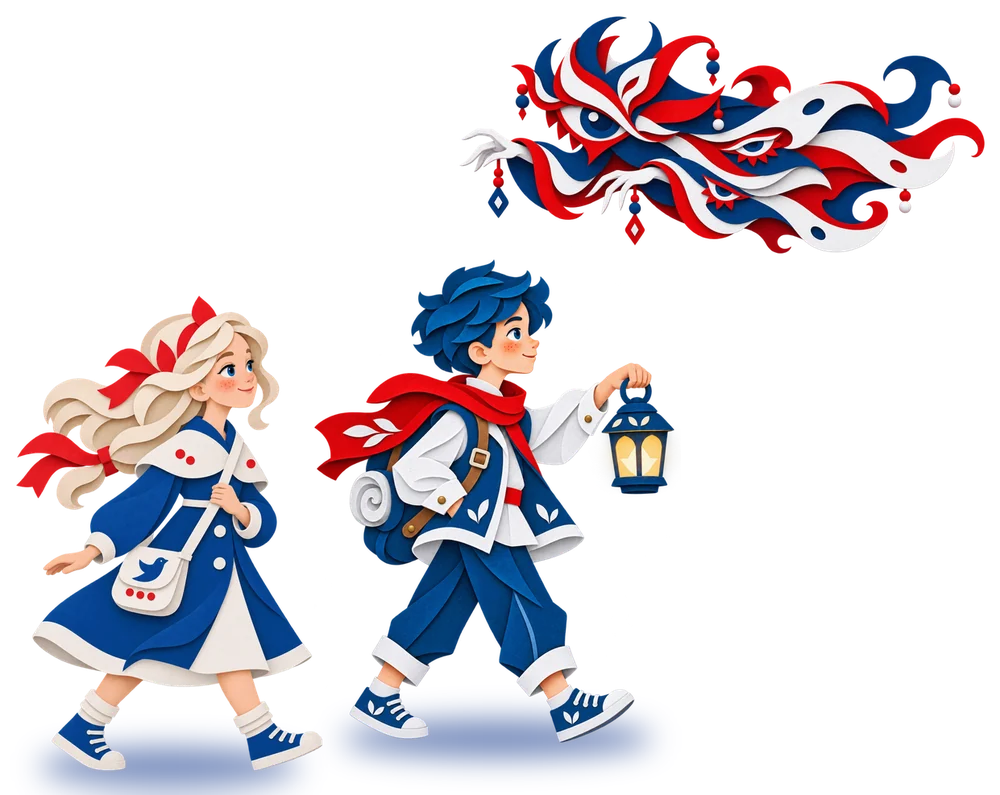
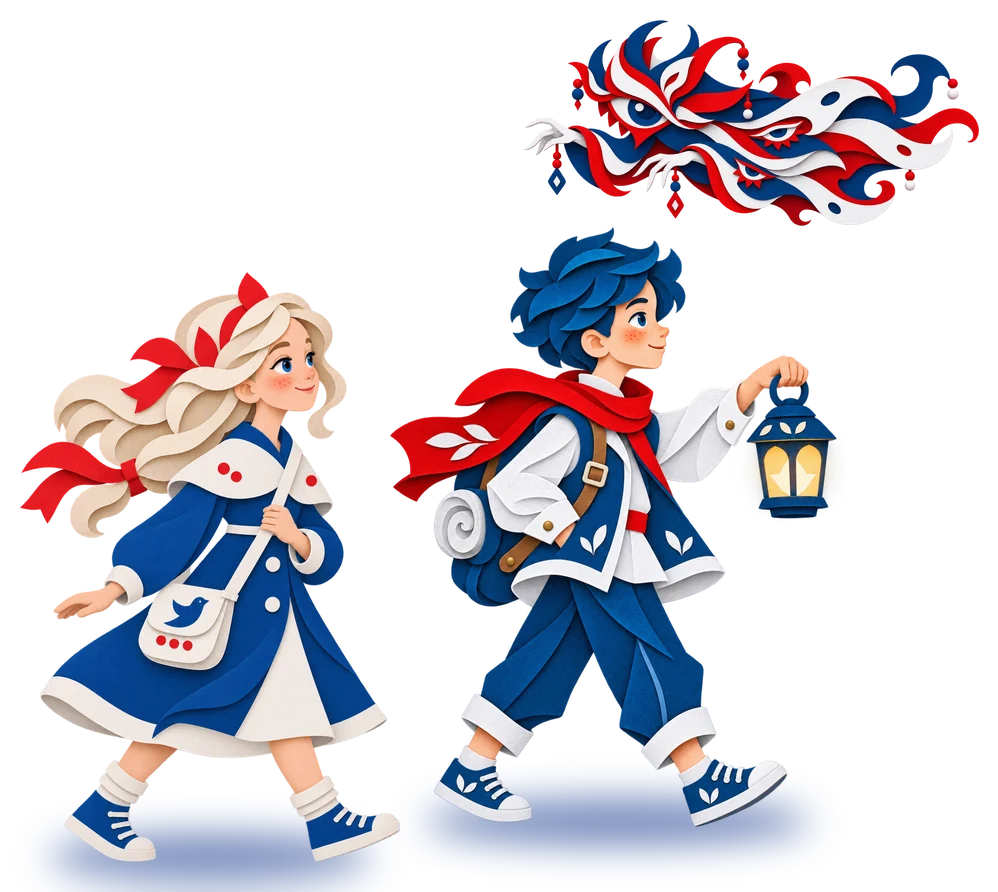
Крупнее герои «Синей птицы» и «Королевы»

diff --git a/index.html b/index.html
@@ -9,14 +9,14 @@
 <link rel="preconnect" href="https://fonts.googleapis.com">
 <link rel="preconnect" href="https://fonts.gstatic.com" crossorigin>
 <link href="https://fonts.googleapis.com/css2?family=Onest:wght@400;500;600;700&display=swap" rel="stylesheet">
-<link rel="stylesheet" href="styles.css?v=d5b880ca">
+<link rel="stylesheet" href="styles.css?v=c5b10583">
 </head>
 <body>
 
 <!-- ОБЛОЖКА: сцена собрана из слоев, раскладка своя на каждом брейкпоинте -->
 <header class="cover">
-  <img class="cover__curtain cover__curtain--l" src="assets/img/curtain-left.webp" alt="" aria-hidden="true">
-  <img class="cover__curtain cover__curtain--r" src="assets/img/curtain-right.webp" alt="" aria-hidden="true">
+  <img class="cover__curtain cover__curtain--l" src="assets/img/curtain-left.webp?v=c5b10583" alt="" aria-hidden="true">
+  <img class="cover__curtain cover__curtain--r" src="assets/img/curtain-right.webp?v=c5b10583" alt="" aria-hidden="true">
   <div class="cover__stage">
     <div class="cover__text">
       <div class="lockup">
@@ -30,7 +30,7 @@
     </div>
     <div class="scene" aria-hidden="true">
       <div class="scene__floor"></div>
-      <div class="layer layer--window anim"><img src="assets/img/cover-window.webp" alt=""><span class="snow snow--glass" data-snow="24" data-size="3,5.4"></span></div>
+      <div class="layer layer--window anim"><img src="assets/img/cover-window.webp?v=c5b10583" alt=""><span class="snow snow--glass" data-snow="24" data-size="3,5.4"></span></div>
       <div class="layer layer--calendar">
         <span class="nail"></span>
         <div class="calendar">
@@ -47,9 +47,9 @@
         </div>
       </div>
       <span class="shadow shadow--tree"></span>
-      <div class="layer layer--tree anim"><img src="assets/img/cover-tree.webp" alt=""><span class="glow glow--star"></span></div>
+      <div class="layer layer--tree anim"><img src="assets/img/cover-tree.webp?v=c5b10583" alt=""><span class="glow glow--star"></span></div>
       <span class="shadow shadow--boy"></span>
-      <img class="layer layer--boy" src="assets/img/cover-boy.webp" alt="">
+      <img class="layer layer--boy" src="assets/img/cover-boy.webp?v=c5b10583" alt="">
     </div>
   </div>
 </header>
@@ -65,7 +65,7 @@
 </section>
 
 <section class="section act">
-  <figure class="strip" data-reveal><h2 class="strip__title">Почему привычное не надоедает</h2><div class="art anim"><img src="assets/img/act1.webp" width="1536" height="864" loading="lazy" alt="Семья встречает Новый год: мальчик в пижаме сидит за столом и показывает шоколадку, разломленную пополам, на столе мандарины"><div class="clock" aria-hidden="true"><i class="clock__tick"></i><i class="clock__h"></i><i class="clock__m"></i><i class="clock__s"></i><i class="clock__cap"></i></div></div></figure>
+  <figure class="strip" data-reveal><h2 class="strip__title">Почему привычное не надоедает</h2><div class="art anim"><img src="assets/img/act1.webp?v=c5b10583" width="1536" height="864" loading="lazy" alt="Семья встречает Новый год: мальчик в пижаме сидит за столом и показывает шоколадку, разломленную пополам, на столе мандарины"><div class="clock" aria-hidden="true"><i class="clock__tick"></i><i class="clock__h"></i><i class="clock__m"></i><i class="clock__s"></i><i class="clock__cap"></i></div></div></figure>
   <div class="col">
     <p>Весь Новый год держится на повторах. Пока бьют куранты, надо успеть загадать желание, а самые отчаянные еще пишут его на бумажке, сжигают, бросают пепел в шампанское и выпивают до двенадцатого удара. Салат, фильм и елочные игрушки из года в год те же, и без них праздник будто не наступает. Кто хоть раз отмечал тридцать первое в поезде или в чужом городе, помнит, как странно поднимать бокал, когда на столе нет оливье.</p>
     <p>Что ритуал делает с удовольствием, американские ученые проверили на шоколаде. В 2013 году Кэтлин Вос, Франческа Джино, Майкл Нортон и их коллеги раздали добровольцам по плитке. Одни ели как хотели. Другие — по инструкции: не разворачивая, ломали плитку пополам, разворачивали одну половинку, съедали ее и только потом принимались за вторую. Им шоколад понравился больше: они дольше его смаковали и согласны были заплатить за него дороже. Потом в ход пошел продукт попроще — морковка, от которой мало кто приходит в такой же восторг, как от сладостей. После короткой церемонии перед едой она тоже казалась вкуснее, особенно если первого кусочка надо было немного подождать. А в опыте с лимонадом выяснилось, что действует это, только если все делаешь сам: когда напиток старательно смешивает кто-то другой, лучше он не становится.</p>
@@ -74,7 +74,7 @@
 </section>
 
 <section class="section act">
-  <figure class="strip" data-reveal><h2 class="strip__title">«Может, почитаем <span class="nw">что-нибудь</span> новенькое?»</h2><div class="art anim"><img src="assets/img/act2.webp" width="1536" height="864" loading="lazy" alt="Падчерица с корзиной подснежников у костра двенадцати месяцев"><span class="sparks" data-sparks="9" aria-hidden="true"></span><span class="snow snow--wide" data-snow="34" data-size=".5,1" aria-hidden="true"></span></div></figure>
+  <figure class="strip" data-reveal><h2 class="strip__title">«Может, почитаем <span class="nw">что-нибудь</span> новенькое?»</h2><div class="art anim"><img src="assets/img/act2.webp?v=c5b10583" width="1536" height="864" loading="lazy" alt="Падчерица с корзиной подснежников у костра двенадцати месяцев"><span class="sparks" data-sparks="9" aria-hidden="true"></span><span class="snow snow--wide" data-snow="34" data-size=".5,1" aria-hidden="true"></span></div></figure>
   <div class="col">
     <p>Ребенок с <span class="u-red">«Двенадцатью месяцами»</span> занят тем же, чем вы с <span class="u-blue">«Иронией судьбы»</span>. Он знает, чем все кончится, поэтому злой мачехи почти не боится: падчерицу в лесу все равно выручат братья-месяцы. А волшебства у костра ждет, затаив дыхание, и это предвкушение тоже часть удовольствия, как в опыте с морковкой. В жизни за него решают взрослые, и не всегда понятно, что будет завтра, а в сказке известен каждый поворот. Пропустите страницу, и вас тут же поправят.</p>
     <p>Заодно на сороковом чтении малыш продолжает учиться. В 2011 году психологи британского Университета Сассекса читали трехлеткам книжки, где незнакомым предметам давали придуманные названия. Те, кто трижды слушал одну историю, новые слова запомнили. Те, кому достались три разные истории с теми же словами, не выучили ни одного.</p>
@@ -101,31 +101,31 @@
     <p>Любой семейный обычай тоже когда-то кто-то придумал: впервые запек в пирог монетку на счастье или поставил детей на табуретку читать стихи. Через два-три года никто уже не помнит, как было до него. Новый можно завести хоть в этом году.</p>
     <p class="bridge__accent">Например, домашний театр.</p>
   </div>
-  <img class="bridge__door" src="assets/img/door-open.webp" alt="" aria-hidden="true" loading="lazy">
+  <img class="bridge__door" src="assets/img/door-open.webp?v=c5b10583" alt="" aria-hidden="true" loading="lazy">
 </section>
 
 <section class="living">
-  <img class="living__curtain living__curtain--l" src="assets/img/curtain-left.webp" alt="" aria-hidden="true" loading="lazy">
-  <img class="living__curtain living__curtain--r" src="assets/img/curtain-right.webp" alt="" aria-hidden="true" loading="lazy">
+  <img class="living__curtain living__curtain--l" src="assets/img/curtain-left.webp?v=c5b10583" alt="" aria-hidden="true" loading="lazy">
+  <img class="living__curtain living__curtain--r" src="assets/img/curtain-right.webp?v=c5b10583" alt="" aria-hidden="true" loading="lazy">
   <h2 class="strip__title">Спектакль в гостиной</h2>
-  <figure class="living__art" data-reveal><div class="art anim"><img src="assets/img/play.webp" width="1536" height="864" loading="lazy" alt="Семья ставит спектакль дома: замок из диванных подушек, дети в бумажной короне и шапке Шерлока Холмса, бабушка — лесной разбойник с фонарем, папа показывает теневой театр на простыне"><img class="hare" src="assets/img/play-hare.webp" alt="" aria-hidden="true" loading="lazy"><span class="glow glow--lantern" aria-hidden="true"></span></div></figure>
+  <figure class="living__art" data-reveal><div class="art anim"><img src="assets/img/play.webp?v=c5b10583" width="1536" height="864" loading="lazy" alt="Семья ставит спектакль дома: замок из диванных подушек, дети в бумажной короне и шапке Шерлока Холмса, бабушка — лесной разбойник с фонарем, папа показывает теневой театр на простыне"><img class="hare" src="assets/img/play-hare.webp?v=c5b10583" alt="" aria-hidden="true" loading="lazy"><span class="glow glow--lantern" aria-hidden="true"></span></div></figure>
   <div class="col">
     <p>«Домашний театр ВТБ» — бесплатный онлайн-проект, с которым каждый может сам устроить новогодний спектакль, и клиентом банка для этого быть не нужно. Так ВТБ поддерживает театральную культуру и делает ее ближе и доступнее для всех россиян. Первый сезон начался в ноябре 2025 года и назывался «Новогодничайте с домашним театром». Профессиональные драматурги и режиссеры по-новому прочитали русские сказки, а МХТ имени А. П. Чехова и Мастерская П. Н. Фоменко поставили по пьесам проекта собственные спектакли, так что одну и ту же сказку можно было сыграть дома и посмотреть в исполнении профессиональных актеров на видео.</p>
     <p class="living__caption">Сезон первый · Русские сказки</p>
   </div>
   <div class="parade" aria-hidden="true">
     <div class="parade__row">
-      <img class="p-mid" src="assets/img/parade-pike.webp" alt="" loading="lazy">
-      <img src="assets/img/parade-emelya.webp" alt="" loading="lazy">
-      <img src="assets/img/parade-marya.webp" alt="" loading="lazy">
-      <img class="p-mid" src="assets/img/parade-konek.webp" alt="" loading="lazy">
-      <img src="assets/img/parade-ivan.webp" alt="" loading="lazy">
-      <img src="assets/img/parade-frost.webp" alt="" loading="lazy">
-      <img src="assets/img/parade-tree.webp" alt="" loading="lazy">
-      <img class="p-small" src="assets/img/parade-mouse.webp" alt="" loading="lazy">
-      <img src="assets/img/parade-fox.webp" alt="" loading="lazy">
-      <img class="p-mid" src="assets/img/parade-hare.webp" alt="" loading="lazy">
-      <img src="assets/img/parade-rooster.webp" alt="" loading="lazy">
+      <img class="p-mid" src="assets/img/parade-pike.webp?v=c5b10583" alt="" loading="lazy">
+      <img src="assets/img/parade-emelya.webp?v=c5b10583" alt="" loading="lazy">
+      <img src="assets/img/parade-marya.webp?v=c5b10583" alt="" loading="lazy">
+      <img class="p-mid" src="assets/img/parade-konek.webp?v=c5b10583" alt="" loading="lazy">
+      <img src="assets/img/parade-ivan.webp?v=c5b10583" alt="" loading="lazy">
+      <img src="assets/img/parade-frost.webp?v=c5b10583" alt="" loading="lazy">
+      <img src="assets/img/parade-tree.webp?v=c5b10583" alt="" loading="lazy">
+      <img class="p-small" src="assets/img/parade-mouse.webp?v=c5b10583" alt="" loading="lazy">
+      <img src="assets/img/parade-fox.webp?v=c5b10583" alt="" loading="lazy">
+      <img class="p-mid" src="assets/img/parade-hare.webp?v=c5b10583" alt="" loading="lazy">
+      <img src="assets/img/parade-rooster.webp?v=c5b10583" alt="" loading="lazy">
     </div>
     <div class="parade__floor"></div>
   </div>
@@ -139,7 +139,7 @@
     <h2 class="season__title">Сезон второй · Андерсен и Метерлинк</h2>
 
     <article class="play">
-      <div class="stage" data-reveal><img class="stage__heroes" src="assets/img/heroes-pea.webp" alt="Вася, Полина и паж Петя" loading="lazy"><img class="stage__curtain" src="assets/img/curtain-right.webp" alt="" aria-hidden="true" loading="lazy"></div>
+      <div class="stage" data-reveal><img class="stage__heroes" src="assets/img/heroes-pea.webp?v=c5b10583" alt="Вася, Полина и паж Петя" loading="lazy"><img class="stage__curtain" src="assets/img/curtain-right.webp?v=c5b10583" alt="" aria-hidden="true" loading="lazy"></div>
       <div class="play__desc">
         <div class="meta"><span class="age">12+</span><span>по мотивам «Принцессы на горошине»</span></div>
         <h3 class="h3">«Дело о горошине»</h3>
@@ -148,13 +148,13 @@
         <a class="btn" href="https://vtb-teatr.ru/stage/delo-o-goroshine/" target="_blank" rel="noopener">Выбрать пьесу<i></i></a>
       </div>
       <aside class="howto">
-        <img src="assets/img/card-pea.webp" alt="" aria-hidden="true" loading="lazy">
+        <img src="assets/img/card-pea.webp?v=c5b10583" alt="" aria-hidden="true" loading="lazy">
         <div><p class="howto__label">Как сыграть дома</p><p>Золотовицкий советует собрать все шапки в доме, лупы, блокноты и карандаши для улик, а королевский замок построить из диванных подушек. Корону можно заказать на маркетплейсе, но куда интереснее сделать ее самим и украсить орехами, старой бижутерией или любимыми стикерами. Для допроса подойдет самый простой теневой театр: допрашиваемого сажают у белой стены или простыни, направляют на него лампу, а детектив встает перед ней и отбрасывает на него тень. По словам режиссера, получается и жутковато, и забавно.</p></div>
       </aside>
     </article>
 
     <article class="play play--flip">
-      <div class="stage" data-reveal><img class="stage__heroes" src="assets/img/heroes-nightingale.webp" alt="Император, живой Соловей и Соловей-ИИ" loading="lazy"><img class="stage__curtain" src="assets/img/curtain-right.webp" alt="" aria-hidden="true" loading="lazy"></div>
+      <div class="stage" data-reveal><img class="stage__heroes" src="assets/img/heroes-nightingale.webp?v=c5b10583" alt="Император, живой Соловей и Соловей-ИИ" loading="lazy"><img class="stage__curtain" src="assets/img/curtain-right.webp?v=c5b10583" alt="" aria-hidden="true" loading="lazy"></div>
       <div class="play__desc">
         <div class="meta"><span class="age">6+</span><span>по мотивам сказки Андерсена</span></div>
         <h3 class="h3">«Соловей»</h3>
@@ -162,7 +162,7 @@
         <p>Китайский император хочет встретить Новый год как положено, с елкой, курантами и пышным торжеством, а главным украшением праздника сделать Соловья. Петь по приказу Соловей не желает, и на смену ему приходит заморская диковина: механический Соловей с искусственным интеллектом, который не спорит, не устает и поет обо всем, о чем попросят. Прямо в новогоднюю ночь Соловей-ИИ заедает, и праздник оказывается на грани провала. Спасти его поможет Мальчик-садовник, который умеет слышать настоящее и знает, где живет настоящий Соловей.</p>
       </div>
       <aside class="howto">
-        <img src="assets/img/card-nightingale.webp" alt="" aria-hidden="true" loading="lazy">
+        <img src="assets/img/card-nightingale.webp?v=c5b10583" alt="" aria-hidden="true" loading="lazy">
         <div><p class="howto__label">Как сыграть дома</p><p>Роль Соловья-ИИ отдайте ребенку, который с голосовой колонкой разговаривает вежливее, чем с вами.</p></div>
       </aside>
       <div class="play__extra">
@@ -172,7 +172,7 @@
     </article>
 
     <article class="play">
-      <div class="stage" data-reveal><img class="stage__heroes" src="assets/img/heroes-bird.webp" alt="Митиль, Тильтиль и Страх" loading="lazy"><img class="stage__curtain" src="assets/img/curtain-right.webp" alt="" aria-hidden="true" loading="lazy"></div>
+      <div class="stage" data-reveal><img class="stage__heroes" src="assets/img/heroes-bird.webp?v=c5b10583" alt="Митиль, Тильтиль и Страх" loading="lazy"><img class="stage__curtain" src="assets/img/curtain-right.webp?v=c5b10583" alt="" aria-hidden="true" loading="lazy"></div>
       <div class="play__desc">
         <div class="meta"><span class="age">6+</span><span>по пьесе Мориса Метерлинка</span></div>
         <h3 class="h3">«Синяя птица»</h3>
@@ -181,13 +181,13 @@
         <a class="btn" href="https://vtb-teatr.ru/stage/sinyaya-ptitsa/" target="_blank" rel="noopener">Выбрать пьесу<i></i></a>
       </div>
       <aside class="howto">
-        <img src="assets/img/card-tiltil.webp" alt="" aria-hidden="true" loading="lazy">
+        <img src="assets/img/card-tiltil.webp?v=c5b10583" alt="" aria-hidden="true" loading="lazy">
         <div><p class="howto__label">Как сыграть дома</p><p>Декорации не нужны: волшебными предметами становятся обычные вещи, а сценой — ваша квартира.</p></div>
       </aside>
     </article>
 
     <article class="play play--flip">
-      <div class="stage" data-reveal><img class="stage__heroes" src="assets/img/heroes-queen.webp" alt="Снежная королева, Лесной разбойник и снежинки" loading="lazy"><img class="stage__curtain" src="assets/img/curtain-right.webp" alt="" aria-hidden="true" loading="lazy"></div>
+      <div class="stage" data-reveal><img class="stage__heroes" src="assets/img/heroes-queen.webp?v=c5b10583" alt="Снежная королева, Лесной разбойник и снежинки" loading="lazy"><img class="stage__curtain" src="assets/img/curtain-right.webp?v=c5b10583" alt="" aria-hidden="true" loading="lazy"></div>
       <div class="play__desc">
         <div class="meta"><span class="age">6+</span><span>по мотивам «Снежной королевы»</span></div>
         <h3 class="h3">«Королева<br>и разбойник»</h3>
@@ -196,7 +196,7 @@
         <a class="btn" href="https://vtb-teatr.ru/stage/koroleva-i-razboynik/" target="_blank" rel="noopener">Выбрать пьесу<i></i></a>
       </div>
       <aside class="howto">
-        <img src="assets/img/card-flake.webp" alt="" aria-hidden="true" loading="lazy">
+        <img src="assets/img/card-flake.webp?v=c5b10583" alt="" aria-hidden="true" loading="lazy">
         <div><p class="howto__label">Как сыграть дома</p><p>Пьеса рассчитана на три поколения, и если за вашим столом есть и те, кто за тишину, и те, кто за бенгальские огни, роли распределятся сами.</p></div>
       </aside>
     </article>
@@ -211,16 +211,16 @@
       <a class="btn btn--white" href="https://vtb-teatr.ru/stage/" target="_blank" rel="noopener">Выбрать пьесу на сайте<i></i></a>
     </div>
     <div class="finale__door" data-reveal>
-      <img class="finale__hall" src="assets/img/door-hall.webp" alt="" aria-hidden="true" loading="lazy">
-      <img class="finale__pearl" src="assets/img/pearl.webp" alt="" aria-hidden="true" loading="lazy">
+      <img class="finale__hall" src="assets/img/door-hall.webp?v=c5b10583" alt="" aria-hidden="true" loading="lazy">
+      <img class="finale__pearl" src="assets/img/pearl.webp?v=c5b10583" alt="" aria-hidden="true" loading="lazy">
     </div>
   </div>
 </section>
 
 <section class="epilogue">
-  <img class="flake flake--a" src="assets/img/flake-1.webp" alt="" aria-hidden="true" loading="lazy">
-  <img class="flake flake--b" src="assets/img/flake-2.webp" alt="" aria-hidden="true" loading="lazy">
-  <figure class="epilogue__art anim" data-reveal><span class="glow glow--lamp" aria-hidden="true"></span><img src="assets/img/epilog.webp" width="900" height="711" loading="lazy" alt="Папа в съехавшей набок короне читает сонному мальчику сказку">
+  <img class="flake flake--a" src="assets/img/flake-1.webp?v=c5b10583" alt="" aria-hidden="true" loading="lazy">
+  <img class="flake flake--b" src="assets/img/flake-2.webp?v=c5b10583" alt="" aria-hidden="true" loading="lazy">
+  <figure class="epilogue__art anim" data-reveal><span class="glow glow--lamp" aria-hidden="true"></span><img src="assets/img/epilog.webp?v=c5b10583" width="900" height="711" loading="lazy" alt="Папа в съехавшей набок короне читает сонному мальчику сказку">
     <div class="calendar calendar--jan" data-reveal aria-hidden="true">
       <span class="calendar__top">
         <span class="calendar__holes"></span>
@@ -240,6 +240,6 @@
 
 <footer class="marking">Реклама. Банк ВТБ (ПАО), ИНН 7702070139</footer>
 
-<script src="app.js?v=d5b880ca"></script>
+<script src="app.js?v=c5b10583"></script>
 </body>
 </html>
